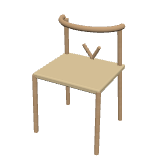
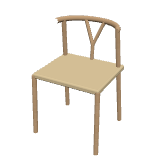
Kitchen: induction hob with downdraft extractor and drawers; units offer their standard widths; colours for pieces without a named model; floor pieces snap to walls drawn slightly off straight
Claude-Session: https://claude.ai/code/session_015nMawU8UEnxGBrfddyhb2N

diff --git a/frontend/model/modern.ts b/frontend/model/modern.ts
@@ -15,6 +15,8 @@ export interface ModernKind {
   finishes: string[];
   /** A second colour (legs, frame, shade, base), the first is the default. */
   accents?: string[];
+  /** The widths it is sold in (metres), offered in the editor; any other width still works. */
+  widths?: number[];
 }
 
 /** Colours of the finishes (wood, lacquer, fabric, stone). */
@@ -54,6 +56,9 @@ const HANDLES = ["black", "chrome", "brass", "oak"];
 const PAINT = ["silver", "white", "black", "anthracite", "blue", "red", "green"];
 
 const k = (id: string, type: FurnitureType, size: [number, number, number], finishes: string[], more: Partial<ModernKind> = {}): ModernKind => ({ id, type, size, finishes, ...more });
+
+/** Kitchen units come in these widths. */
+const UNIT = [0.3, 0.45, 0.5, 0.6, 0.8, 0.9, 1.0, 1.2];
 
 export const MODERN_GROUPS: { id: string; kinds: ModernKind[] }[] = [
   {
@@ -152,24 +157,25 @@ export const MODERN_GROUPS: { id: string; kinds: ModernKind[] }[] = [
     kinds: [
       k("kitchen", "kitchen", [3.0, 0.62, 0.91], ["white", "anthracite", "oak", "green", "blue", "black"], { accents: WORKTOP }),
       k("kitchen_island", "kitchen", [2.4, 1.0, 0.92], ["white", "anthracite", "oak", "green", "blue", "black"], { accents: WORKTOP }),
-      k("kitchen_upper", "kitchen_upper", [2.4, 0.35, 0.72], ["white", "anthracite", "oak", "green", "blue", "black"], { mount: "wall", elevation: 1.45 }),
-      k("kitchen_tall", "fridge", [0.6, 0.62, 2.2], ["white", "anthracite", "oak", "green", "blue", "black"]),
-      k("kitchen_base", "kitchen", [0.6, 0.62, 0.91], FRONTS, { accents: WORKTOP }),
-      k("kitchen_drawers", "kitchen", [0.6, 0.62, 0.91], FRONTS, { accents: WORKTOP }),
-      k("kitchen_sink_unit", "kitchen", [0.8, 0.62, 0.91], FRONTS, { accents: WORKTOP }),
-      k("kitchen_hob_gas", "kitchen", [0.6, 0.62, 0.91], FRONTS, { accents: WORKTOP }),
-      k("kitchen_hob_ceran", "kitchen", [0.6, 0.62, 0.91], FRONTS, { accents: WORKTOP }),
-      k("kitchen_hob_electric", "kitchen", [0.6, 0.62, 0.91], FRONTS, { accents: WORKTOP }),
-      k("kitchen_oven", "kitchen", [0.6, 0.62, 0.91], FRONTS, { accents: WORKTOP }),
-      k("kitchen_dishwasher", "kitchen", [0.6, 0.62, 0.91], FRONTS, { accents: WORKTOP }),
+      k("kitchen_upper", "kitchen_upper", [2.4, 0.35, 0.72], ["white", "anthracite", "oak", "green", "blue", "black"], { mount: "wall", elevation: 1.45, widths: UNIT }),
+      k("kitchen_tall", "fridge", [0.6, 0.62, 2.2], ["white", "anthracite", "oak", "green", "blue", "black"], { widths: [0.3, 0.45, 0.5, 0.6] }),
+      k("kitchen_base", "kitchen", [0.6, 0.62, 0.91], FRONTS, { accents: WORKTOP, widths: UNIT }),
+      k("kitchen_drawers", "kitchen", [0.6, 0.62, 0.91], FRONTS, { accents: WORKTOP, widths: UNIT }),
+      k("kitchen_sink_unit", "kitchen", [0.8, 0.62, 0.91], FRONTS, { accents: WORKTOP, widths: [0.6, 0.8, 0.9, 1.0, 1.2] }),
+      k("kitchen_hob_gas", "kitchen", [0.6, 0.62, 0.91], FRONTS, { accents: WORKTOP, widths: [0.6, 0.8, 0.9] }),
+      k("kitchen_hob_ceran", "kitchen", [0.6, 0.62, 0.91], FRONTS, { accents: WORKTOP, widths: [0.6, 0.8, 0.9] }),
+      k("kitchen_hob_downdraft", "kitchen", [0.8, 0.62, 0.91], FRONTS, { accents: WORKTOP, widths: [0.6, 0.8, 0.9] }),
+      k("kitchen_hob_electric", "kitchen", [0.6, 0.62, 0.91], FRONTS, { accents: WORKTOP, widths: [0.6, 0.8, 0.9] }),
+      k("kitchen_oven", "kitchen", [0.6, 0.62, 0.91], FRONTS, { accents: WORKTOP, widths: [0.6, 0.9] }),
+      k("kitchen_dishwasher", "kitchen", [0.6, 0.62, 0.91], FRONTS, { accents: WORKTOP, widths: [0.45, 0.6] }),
       k("kitchen_corner", "kitchen", [1.0, 1.0, 0.91], FRONTS, { accents: WORKTOP }),
-      k("kitchen_pantry", "kitchen", [0.6, 0.62, 2.2], FRONTS),
-      k("kitchen_pantry_mid", "kitchen", [0.6, 0.62, 1.45], FRONTS),
+      k("kitchen_pantry", "kitchen", [0.6, 0.62, 2.2], FRONTS, { widths: [0.3, 0.45, 0.5, 0.6] }),
+      k("kitchen_pantry_mid", "kitchen", [0.6, 0.62, 1.45], FRONTS, { widths: [0.3, 0.45, 0.5, 0.6] }),
       k("kitchen_tall_fridge", "fridge", [0.6, 0.62, 2.2], FRONTS),
       k("kitchen_tall_oven", "kitchen", [0.6, 0.62, 2.2], FRONTS),
-      k("kitchen_upper_glass", "kitchen_upper", [0.8, 0.35, 0.72], FRONTS, { mount: "wall", elevation: 1.45 }),
-      k("kitchen_upper_open", "kitchen_upper", [0.8, 0.25, 0.72], ["oak", "white", "black", "walnut"], { mount: "wall", elevation: 1.45 }),
-      k("kitchen_hood", "kitchen_upper", [0.9, 0.5, 1.0], ["silver", "black", "white"], { mount: "wall", elevation: 1.55 }),
+      k("kitchen_upper_glass", "kitchen_upper", [0.8, 0.35, 0.72], FRONTS, { mount: "wall", elevation: 1.45, widths: UNIT }),
+      k("kitchen_upper_open", "kitchen_upper", [0.8, 0.25, 0.72], ["oak", "white", "black", "walnut"], { mount: "wall", elevation: 1.45, widths: UNIT }),
+      k("kitchen_hood", "kitchen_upper", [0.9, 0.5, 1.0], ["silver", "black", "white"], { mount: "wall", elevation: 1.55, widths: [0.6, 0.9, 1.2] }),
       k("fridge_freestanding", "fridge", [0.6, 0.66, 1.85], ["silver", "white", "black", "anthracite", "blue", "red"]),
       k("fridge_double", "fridge", [0.91, 0.72, 1.78], ["silver", "black", "white"]),
       k("microwave", "item", [0.48, 0.38, 0.28], ["silver", "black", "white"]),

diff --git a/frontend/editor/homeslice-panel.ts b/frontend/editor/homeslice-panel.ts
@@ -4122,6 +4122,9 @@ export class HomeslicePanel extends LitElement {
     if (!r || !f) return nothing;
     const set = (patch: Partial<FurnitureInput>) => this.commit(updateFurniture(m, this._level, r.id, sel.index, patch));
     const [w, d] = f.size ?? FURNITURE[f.type].size;
+    // the built-in piece it is drawn as: named, or the type's own when it names none
+    const kindId = f.model?.startsWith("modern:") ? f.model.slice(7) : f.model ? undefined : defaultKind(f.type, mountOf(f));
+    const kind = kindId ? MODERN[kindId] : undefined;
     const size = (axis: 0 | 1) => (e: Event) => {
       const v = Number((e.target as HTMLInputElement).value);
       if (!(v > 0.05)) return;
@@ -4144,21 +4147,34 @@ export class HomeslicePanel extends LitElement {
           if (v > 0) set({ height: v === FURNITURE[f.type].height ? undefined : v });
         }} /></label>
       </div>
+      ${kind?.widths
+        ? html`<div class="widths" role="radiogroup" aria-label=${this.t("editor.furniture_widths")}>
+            <span class="muted">${this.t("editor.furniture_widths")}</span>
+            ${kind.widths.map((x) => {
+              const on = Math.abs(w - x) < 0.001;
+              return html`<button role="radio" class=${on ? "active" : ""} aria-checked=${on} data-width=${x}
+                @click=${() => {
+                  const def = FURNITURE[f.type].size;
+                  set({ size: x === def[0] && d === def[1] ? undefined : [x, d] });
+                }}>${Math.round(x * 100)}</button>`;
+            })}
+          </div>`
+        : nothing}
       ${f.model ? html`<p class="muted">${this.t("editor.furniture_model")}: ${this.modelName(f.model)}</p>` : nothing}
-      ${f.model?.startsWith("modern:") && MODERN[f.model.slice(7)]
+      ${kind
         ? html`<div class="finishes" role="radiogroup" aria-label=${this.t("editor.furniture_finish")}>
             <span class="muted">${this.t("editor.furniture_finish")}</span>
-            ${MODERN[f.model.slice(7)].finishes.map(
-              (x, i) => html`<button role="radio" class="swatch ${(f.finish ?? MODERN[f.model!.slice(7)].finishes[0]) === x ? "active" : ""}" aria-checked=${(f.finish ?? MODERN[f.model!.slice(7)].finishes[0]) === x}
+            ${kind.finishes.map(
+              (x, i) => html`<button role="radio" class="swatch ${(f.finish ?? kind.finishes[0]) === x ? "active" : ""}" aria-checked=${(f.finish ?? kind.finishes[0]) === x}
                 title=${this.t(`finish.${x}` as StringKey)} data-finish=${x} style="--swatch:${FINISHES[x]}" @click=${() => set({ finish: i === 0 ? undefined : x })}></button>`,
             )}
           </div>`
         : nothing}
-      ${f.model?.startsWith("modern:") && MODERN[f.model.slice(7)]?.accents
+      ${kind?.accents
         ? html`<div class="finishes" role="radiogroup" aria-label=${this.t("editor.furniture_accent")}>
             <span class="muted">${this.t("editor.furniture_accent")}</span>
-            ${MODERN[f.model.slice(7)].accents!.map(
-              (x, i) => html`<button role="radio" class="swatch ${(f.accent ?? MODERN[f.model!.slice(7)].accents![0]) === x ? "active" : ""}" aria-checked=${(f.accent ?? MODERN[f.model!.slice(7)].accents![0]) === x}
+            ${kind.accents.map(
+              (x, i) => html`<button role="radio" class="swatch ${(f.accent ?? kind.accents![0]) === x ? "active" : ""}" aria-checked=${(f.accent ?? kind.accents![0]) === x}
                 title=${this.t(`finish.${x}` as StringKey)} data-accent=${x} style="--swatch:${FINISHES[x]}" @click=${() => set({ accent: i === 0 ? undefined : x })}></button>`,
             )}
           </div>`
@@ -4175,7 +4191,7 @@ export class HomeslicePanel extends LitElement {
       </div>
       <p class="muted">${this.t(`editor.mount_${mountOf(f)}_hint` as StringKey)}</p>
       ${this.renderSnapPieces()}
-      ${this.linkSelect(r.area_id, f.entity, (entity) => set({ entity }), linkDomain(f.type, f.model?.startsWith("modern:") ? f.model.slice(7) : f.model ? undefined : defaultKind(f.type, mountOf(f))))}
+      ${this.linkSelect(r.area_id, f.entity, (entity) => set({ entity }), linkDomain(f.type, kindId))}
       <p class="muted">${this.t("editor.furniture_entity_hint")}</p>
       ${(f.readings ?? []).map(
         (id, i) => html`<div class="row detail">
@@ -8638,6 +8654,22 @@ export class HomeslicePanel extends LitElement {
       text-align: center;
     }
     .library .piece:hover {
+      border-color: var(--accent);
+    }
+    .widths {
+      display: flex;
+      flex-wrap: wrap;
+      align-items: center;
+      gap: 4px;
+      margin: 6px 0;
+    }
+    .widths button {
+      min-width: 36px;
+      padding: 2px 6px;
+    }
+    .widths button.active {
+      background: var(--accent);
+      color: #fff;
       border-color: var(--accent);
     }
     .finishes {

diff --git a/frontend/render/modern.ts b/frontend/render/modern.ts
@@ -1537,6 +1537,37 @@ const BASE_BUILDERS: Record<string, Build> = {
       for (const k of [1, 0.6]) b.add(new THREE.RingGeometry(r * k - 0.003, r * k, 32), mat("#6a6d72"), dx * pw, h + 0.007, dz * (d - 0.1)).rotation.x = -Math.PI / 2;
     for (let i = 0; i < 6; i++) b.add(new THREE.CircleGeometry(0.006, 8), mat("#c9cdd1", { emissive: "#c9cdd1", emissiveIntensity: 0.3 }), -0.08 + i * 0.032, h + 0.007, d / 2 - 0.07).rotation.x = -Math.PI / 2;
   },
+  kitchen_hob_downdraft: (b, w, d, h, f, _c, a) => {
+    // two deep drawers under an induction hob with the extractor sunk in its middle
+    const u = kitchenBase(b, w, d, h, a);
+    fronts(b, -w / 2, w, u.y0, u.y1 - u.y0, u.fz, 1, f, 2, "bar");
+    const gw = Math.min(w - 0.04, 0.8);
+    const gd = Math.min(d - 0.1, 0.52);
+    const top = h + 0.0065;
+    b.box(gw, 0.006, gd, 0, h, 0, mat(C.screen, { roughness: 0.08, metalness: 0.2 }), 0.004);
+    const line = mat("#6a6d72");
+    const ring = (x: number, z: number, r: number) => (b.add(new THREE.RingGeometry(r - 0.003, r, 40), line, x, top, z).rotation.x = -Math.PI / 2);
+    // round zones on the left, a flex zone of two squares on the right
+    ring(-gw * 0.3, gd * 0.12, Math.min(0.11, gw * 0.14));
+    ring(-gw * 0.15, -gd * 0.25, Math.min(0.07, gw * 0.09));
+    const fx = gw * 0.3;
+    const fw = Math.min(0.22, gw * 0.28);
+    for (const z of [-gd * 0.21, gd * 0.21]) {
+      for (const sz of [-1, 1]) b.box(fw, 0.001, 0.003, fx, top, z + (sz * gd * 0.2), line);
+      for (const sx of [-1, 1]) b.box(0.003, 0.001, gd * 0.4, fx + (sx * fw) / 2, top, z, line);
+    }
+    // the extractor: a dark well with a round grille and a cap in the middle
+    const gx = gw * 0.02;
+    const gr = Math.min(0.075, gw * 0.1);
+    b.cyl(gr, gr, 0.002, gx, top, 0, mat("#0d0e10", { roughness: 0.9 }), 32);
+    const grille = mat("#4a4d52", { metalness: 0.6, roughness: 0.4 });
+    for (let i = 0; i < 7; i++) b.box(gr * 1.7 * Math.sqrt(1 - ((i - 3) / 3.6) ** 2), 0.002, 0.005, gx, top + 0.002, (i - 3) * gr * 0.26, grille);
+    b.add(new THREE.TorusGeometry(gr, 0.004, 4, 32), grille, gx, top + 0.002, 0).rotation.x = Math.PI / 2;
+    b.cyl(gr * 0.3, gr * 0.3, 0.008, gx, top, 0, mat("#2a2b2e", { roughness: 0.5 }), 20);
+    // touch controls at the front
+    for (let i = 0; i < 5; i++)
+      b.add(new THREE.CircleGeometry(0.005, 8), mat("#c9cdd1", { emissive: "#c9cdd1", emissiveIntensity: 0.3 }), -gw * 0.05 + i * 0.022, top, gd / 2 - 0.05).rotation.x = -Math.PI / 2;
+  },
   kitchen_oven: (b, w, d, h, f, _c, a) => {
     const u = kitchenBase(b, w, d, h, a);
     oven(b, w, u, f);

diff --git a/frontend/editor/ops.ts b/frontend/editor/ops.ts
@@ -675,19 +675,29 @@ export function snapFurniture(
   const hi = (f: Footprint, axis: 0 | 1) => f.c[axis] + f.half[axis];
   const overlaps = (f: Footprint, a0: number, a1: number, axis: 0 | 1, margin = 0) => Math.min(hi(f, axis), a1) - Math.max(lo(f, axis), a0) > -margin;
   for (const [a, b] of walls) {
-    // a wall along y (constant x) snaps x, if it runs beside the piece
+    // a wall along y (constant x) snaps x, if it runs beside the piece; walls drawn a few
+    // millimetres off straight (up to about 2°) count too
     for (const axis of [0, 1] as const) {
       const other = (1 - axis) as 0 | 1;
-      if (Math.abs(a[axis] - b[axis]) > 1e-6) continue;
+      const run = b[other] - a[other];
+      if (Math.abs(a[axis] - b[axis]) > 1e-6 && Math.abs(a[axis] - b[axis]) > Math.abs(run) * 0.035) continue;
       if (!overlaps(piece, Math.min(a[other], b[other]), Math.max(a[other], b[other]), other)) continue;
-      const face = a[axis];
+      // the face where the piece runs along it: its nearest point decides, so the piece stays out of the wall
+      const faceAt = (q: number) => (Math.abs(run) < 1e-9 ? a[axis] : a[axis] + ((b[axis] - a[axis]) * (Math.max(Math.min(a[other], b[other]), Math.min(Math.max(a[other], b[other]), q)) - a[other])) / run);
+      const ends = [faceAt(lo(piece, other)), faceAt(hi(piece, other))];
       // which side of the face the room is on (a piece never snaps into the wall behind it)
       const mid: Vec2 = [(a[0] + b[0]) / 2, (a[1] + b[1]) / 2];
       const probe: Vec2 = [...mid] as Vec2;
       probe[axis] += 0.05;
       const roomAbove = inRoom ? inRoom(probe) : null;
-      if (roomAbove !== false) offer(axis, face - lo(piece, axis), face);
-      if (roomAbove !== true) offer(axis, face - hi(piece, axis), face);
+      if (roomAbove !== false) {
+        const face = Math.max(...ends);
+        offer(axis, face - lo(piece, axis), face);
+      }
+      if (roomAbove !== true) {
+        const face = Math.min(...ends);
+        offer(axis, face - hi(piece, axis), face);
+      }
     }
   }
   for (const o of others) {

diff --git a/frontend/model/catalog.ts b/frontend/model/catalog.ts
@@ -29,7 +29,7 @@ export function catalog() {
       Object.entries(FURNITURE).map(([t, d]) => [t, { name: name(`furniture.${t}`), size: d.size, height: d.height, ...(d.mount ? { mount: d.mount } : {}), ...(d.elevation !== undefined ? { elevation: d.elevation } : {}) }]),
     ),
     modern: MODERN_GROUPS.flatMap((g) =>
-      g.kinds.map((k) => ({ model: `modern:${k.id}`, name: name(`modern.${k.id}`), group: g.id, type: k.type, size: k.size, finishes: k.finishes, ...(kindTags(k.id, k.type).length ? { tags: kindTags(k.id, k.type) } : {}), ...(k.accents ? { accents: k.accents } : {}), ...(k.mount ? { mount: k.mount } : {}), ...(k.elevation !== undefined ? { elevation: k.elevation } : {}) })),
+      g.kinds.map((k) => ({ model: `modern:${k.id}`, name: name(`modern.${k.id}`), group: g.id, type: k.type, size: k.size, finishes: k.finishes, ...(kindTags(k.id, k.type).length ? { tags: kindTags(k.id, k.type) } : {}), ...(k.accents ? { accents: k.accents } : {}), ...(k.widths ? { widths: k.widths } : {}), ...(k.mount ? { mount: k.mount } : {}), ...(k.elevation !== undefined ? { elevation: k.elevation } : {}) })),
     ),
     finishes: Object.keys(FINISHES),
     energy_kinds: ["solar", "battery", "grid", "inverter", "device"],

diff --git a/frontend/editor/ops.test.ts b/frontend/editor/ops.test.ts
@@ -677,6 +677,16 @@ describe("snapping furniture", () => {
     expect(r.c[1]).toBeCloseTo(0.81);
   });
 
+  it("snaps against a wall drawn a few millimetres off straight, without going into it", () => {
+    // the east face runs from x 5.6 at the top to 5.595 at the bottom (5 mm over 4 m)
+    const inner: Vec2[] = [[3.7, 9.1], [5.6, 9.1], [5.595, 12.87], [3.7, 12.87]];
+    const faces = inner.map((q, i) => [q, inner[(i + 1) % inner.length]] as [Vec2, Vec2]);
+    const inRoom = (p: Vec2) => p[0] > 3.7 && p[0] < 5.6 && p[1] > 9.1 && p[1] < 12.87;
+    const r = snapFurniture({ c: [5.2, 11], half: [0.31, 0.4] }, faces, [], [], 0.2, inRoom);
+    // its east side on the face where the face is nearest (the lower end of the piece)
+    const faceAt = (y: number) => 5.6 - (0.005 * (y - 9.1)) / 3.77;
+    expect(r.c[0] + 0.31).toBeCloseTo(faceAt(11.4), 6);
+  });
   it("pushes a piece against a nearby wall", () => {
     const r = snapFurniture({ c: [2, 0.55], half: [1, 0.45] }, walls, [], [], 0.15);
     expect(r.c[1]).toBeCloseTo(0.45);
